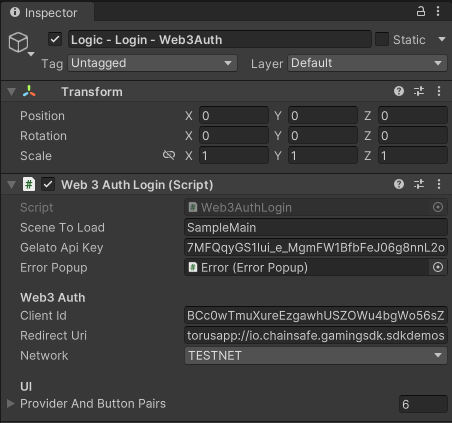
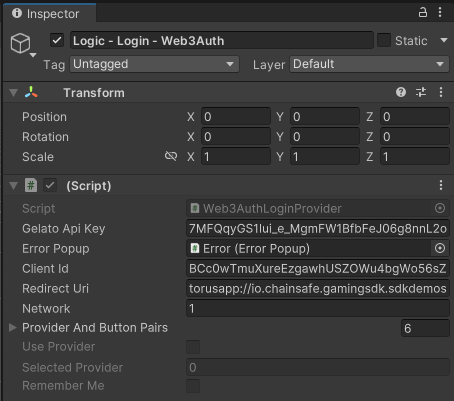
Updated Web3Auth page
I removed the old scripts, and added in details to inform the user on how to obtain their API key.

diff --git a/docs/v2.6/5_web3auth.md b/docs/v2.6/5_web3auth.md
@@ -24,316 +24,26 @@ Here’s how you can include Web3Auth in your video games.
 
 6. Add the Web3Auth scene and your scene to the build settings, and you’re done.
 
-## Sign Web3Auth {#sign-through-web3auth}
-
-Generates a cryptographic signature for a given string or message via Web3Auth.
-
-```csharp
-using UnityEngine.UI;
-using UnityEngine;
-using Web3Unity.Scripts.Library.Ethers.Web3AuthWallet;
-
-public class SignW3A : MonoBehaviour
-{
-    public Text responseText;
-    public string message = "This is a test message to sign";
-    private GameObject CSWallet = null;
-    
-    public void OnEnable()
-    {
-        // resets response text
-        responseText.text = "";
-    }
-
-    public void OnSignMessage()
-    {
-        // finds the wallet, sets sign and incoming tx conditions to true and opens
-        CSWallet = GameObject.FindGameObjectWithTag("CSWallet");
-        W3AWalletUtils.incomingTx = true;
-        W3AWalletUtils.incomingAction = "Sign";
-        W3AWalletUtils.incomingMessageData = message;
-        CSWallet.GetComponent<Web3AuthWallet>().OpenButton();
-    }
-
-    void Update()
-    {
-        if (W3AWalletUtils.signedTxResponse != "")
-        {
-            // display signed tx response from wallet
-            responseText.text = W3AWalletUtils.signedTxResponse;
-            W3AWalletUtils.signedTxResponse = "";
-        }
-    }
-}
-```
-
-## Verify Web3Auth {#verify-through-web3auth}
-
-Verify a signed message via Web3Auth.
-
-```csharp
-using UnityEngine.UI;
-using System.Text;
-using Nethereum.Signer;
-using Nethereum.Util;
-using UnityEngine;
-using Web3Unity.Scripts.Library.Ethers.Web3AuthWallet;
-
-public class VerifyW3A : MonoBehaviour
-{
-    public Text responseText;
-    public string message = "hello";
-    private GameObject CSWallet = null;
-
-    public void OnEnable()
-    {
-        // resets response text
-        responseText.text = "";
-    }
-    
-    public void UserSign()
-    {
-        // finds the wallet, sets sign and incoming tx conditions to true and opens
-        CSWallet = GameObject.FindGameObjectWithTag("CSWallet");
-        W3AWalletUtils.incomingTx = true;
-        W3AWalletUtils.incomingAction = "Sign";
-        W3AWalletUtils.incomingMessageData = message;
-        CSWallet.GetComponent<Web3AuthWallet>().OpenButton();
-    }
-    
-    public void SignVerifySignature(string signatureString, string originalMessage)
-    {
-        string msg = "\x19" + "Ethereum Signed Message:\n" + originalMessage.Length + originalMessage;
-        byte[] msgHash = new Sha3Keccack().CalculateHash(Encoding.UTF8.GetBytes(msg));
-        EthECDSASignature signature = MessageSigner.ExtractEcdsaSignature(signatureString);
-        EthECKey key = EthECKey.RecoverFromSignature(signature, msgHash);
-
-        bool isValid = key.Verify(msgHash, signature);
-        Debug.Log("Address Returned: " + key.GetPublicAddress());
-        Debug.Log("Is Valid: " + isValid);
-        // display signed tx response from wallet
-        responseText.text = "Verify Address: " + key.GetPublicAddress();
-    }
-    
-    void Update()
-    {
-        if (W3AWalletUtils.signedTxResponse != "")
-        {
-            //verification
-            SignVerifySignature(W3AWalletUtils.signedTxResponse, message);
-            W3AWalletUtils.signedTxResponse = "";
-        }
-    }
-}
-```
-
-## Transfer ERC-20 Token Through Web3Auth {#transfer-erc-20-token-through-web3auth}
-
-Send an ERC-20 token transfer through Unity via Web3Auth.
-
-```csharp
-using System;
-using System.Numerics;
-using Web3Unity.Scripts.Library.Ethers.Contracts;
-using UnityEngine;
-using UnityEngine.UI;
-using Web3Unity.Scripts.Library.Ethers.Web3AuthWallet;
-
-public class TransferW3A: MonoBehaviour
-{
-    public Text responseText;
-    public string contractAddress = "0xed7f68Ed23bB75841ab1448A95fa19aA46e9EA3E";
-    public string toAccount = "0xdA064B1Cef52e19caFF22ae2Cc1A4e8873B8bAB0";
-    public string amount = "1000000000000000000";
-    public string contractAbi = "[ { \"inputs\": [ { \"internalType\": \"address\", \"name\": \"_to\", \"type\": \"address\" }, { \"internalType\": \"uint256\", \"name\": \"_value\", \"type\": \"uint256\" } ], \"name\": \"mint\", \"outputs\": [ { \"internalType\": \"bool\", \"name\": \"\", \"type\": \"bool\" } ], \"stateMutability\": \"nonpayable\", \"type\": \"function\" }, { \"inputs\": [ { \"internalType\": \"address\", \"name\": \"_to\", \"type\": \"address\" }, { \"internalType\": \"uint256\", \"name\": \"_value\", \"type\": \"uint256\" } ], \"name\": \"transfer\", \"outputs\": [ { \"internalType\": \"bool\", \"name\": \"success\", \"type\": \"bool\" } ], \"stateMutability\": \"nonpayable\", \"type\": \"function\" }, { \"inputs\": [], \"stateMutability\": \"nonpayable\", \"type\": \"constructor\" }, { \"anonymous\": false, \"inputs\": [ { \"indexed\": true, \"internalType\": \"address\", \"name\": \"_from\", \"type\": \"address\" }, { \"indexed\": true, \"internalType\": \"address\", \"name\": \"_to\", \"type\": \"address\" }, { \"indexed\": false, \"internalType\": \"uint256\", \"name\": \"_value\", \"type\": \"uint256\" } ], \"name\": \"Transfer\", \"type\": \"event\" }, { \"inputs\": [], \"name\": \"_decimal\", \"outputs\": [ { \"internalType\": \"uint8\", \"name\": \"\", \"type\": \"uint8\" } ], \"stateMutability\": \"view\", \"type\": \"function\" }, { \"inputs\": [], \"name\": \"_name\", \"outputs\": [ { \"internalType\": \"string\", \"name\": \"\", \"type\": \"string\" } ], \"stateMutability\": \"view\", \"type\": \"function\" }, { \"inputs\": [], \"name\": \"_symbol\", \"outputs\": [ { \"internalType\": \"string\", \"name\": \"\", \"type\": \"string\" } ], \"stateMutability\": \"view\", \"type\": \"function\" }, { \"inputs\": [], \"name\": \"_totalSupply\", \"outputs\": [ { \"internalType\": \"uint256\", \"name\": \"\", \"type\": \"uint256\" } ], \"stateMutability\": \"view\", \"type\": \"function\" }, { \"inputs\": [ { \"internalType\": \"address\", \"name\": \"_owner\", \"type\": \"address\" } ], \"name\": \"balanceOf\", \"outputs\": [ { \"internalType\": \"uint256\", \"name\": \"balance\", \"type\": \"uint256\" } ], \"stateMutability\": \"view\", \"type\": \"function\" }, { \"inputs\": [], \"name\": \"decimals\", \"outputs\": [ { \"internalType\": \"uint8\", \"name\": \"\", \"type\": \"uint8\" } ], \"stateMutability\": \"view\", \"type\": \"function\" }, { \"inputs\": [], \"name\": \"name\", \"outputs\": [ { \"internalType\": \"string\", \"name\": \"\", \"type\": \"string\" } ], \"stateMutability\": \"view\", \"type\": \"function\" }, { \"inputs\": [], \"name\": \"symbol\", \"outputs\": [ { \"internalType\": \"string\", \"name\": \"\", \"type\": \"string\" } ], \"stateMutability\": \"view\", \"type\": \"function\" }, { \"inputs\": [], \"name\": \"totalSupply\", \"outputs\": [ { \"internalType\": \"uint256\", \"name\": \"\", \"type\": \"uint256\" } ], \"stateMutability\": \"view\", \"type\": \"function\" } ]";
-    private GameObject CSWallet = null;
-    
-    public void OnEnable()
-    {
-        // resets response text
-        responseText.text = "";
-    }
-    
-    public void Transfer()
-    {
-        // smart contract method to call
-        string method = "transfer";
-        W3AWalletUtils.outgoingContract = contractAddress;
-        // connects to user's browser wallet (metamask) to send a transaction
-        try {
-            // connects to user's browser wallet to call a transaction
-            var contract = new Contract(contractAbi, contractAddress);
-            Debug.Log("Contract: " + contract);
-            var calldata = contract.Calldata(method, new object[]
-            {
-                toAccount,
-                BigInteger.Parse(amount)
-            });
-            Debug.Log("Contract Data: " + calldata);
-            // finds the wallet, sets sign and incoming tx conditions to true and opens
-            CSWallet = GameObject.FindGameObjectWithTag("CSWallet");
-            W3AWalletUtils.incomingTx = true;
-            W3AWalletUtils.incomingAction = "Broadcast";
-            W3AWalletUtils.incomingTxData = calldata;
-            CSWallet.GetComponent<Web3AuthWallet>().OpenButton();
-        } catch (Exception e) {
-            Debug.LogException(e, this);
-        }
-    }
-
-    public void Mint()
-    {
-        string account = PlayerPrefs.GetString("Account");
-        // smart contract method to call
-        string method = "mint";
-        W3AWalletUtils.outgoingContract = contractAddress;
-        // connects to user's browser wallet (metamask) to send a transaction
-        try {
-            var contract = new Contract(contractAbi, contractAddress);
-            Debug.Log("Contract: " + contract);
-            var calldata = contract.Calldata(method, new object[]
-            {
-                account,
-                BigInteger.Parse(amount)
-            });
-            Debug.Log("Contract Data: " + calldata);
-            // finds the wallet, sets sign and incoming tx conditions to true and opens
-            CSWallet = GameObject.FindGameObjectWithTag("CSWallet");
-            W3AWalletUtils.incomingTx = true;
-            W3AWalletUtils.incomingAction = "Broadcast";
-            W3AWalletUtils.incomingTxData = calldata;
-            CSWallet.GetComponent<Web3AuthWallet>().OpenButton();
-        } catch (Exception e) {
-            Debug.LogException(e, this);
-        }
-    }
-    
-    void Update()
-    {
-        if (W3AWalletUtils.signedTxResponse != "")
-        {
-            // display signed tx response from wallet
-            responseText.text = W3AWalletUtils.signedTxResponse;
-            W3AWalletUtils.signedTxResponse = "";
-        }
-    }
-}
-```
-
-## Call Custom Contracts Web3Auth {#call-custom-contracts-through-web3auth}
-
-Call will execute a smart contract method without altering the smart contract state via Web3Auth.
-
-## Solidity Contract Example
-
-This code snippet defines a simple smart contract example where the `myTotal` variable (initialized at 0) is added to (by the input value `_myArg`) and updated to a new total. 
-
-```csharp
-// SPDX-License-Identifier: MIT
-pragma solidity ^0.8.0;
-
-contract AddTotal {
-    uint256 public myTotal = 0;
-
-    function addTotal(uint8 _myArg) public {
-        myTotal = myTotal + _myArg;
-    }
-}
-```
-
-## Reading & Writing A Value From A Solidity Contract Web3Auth
-
-Retrieves the value of a specified variable (`myTotal`) from a smart contract.
-
-```csharp
-using Web3Unity.Scripts.Library.Ethers.Contracts;
-using UnityEngine.UI;
-using UnityEngine;
-using Web3Unity.Scripts.Library.Ethers.Web3AuthWallet;
-
-public class ContractCallSignW3A : MonoBehaviour
-{
-    public string chain = "ethereum";
-    // set network mainnet, testnet
-    public string network = "goerli";
-    // abi in json format
-    public string contractAbi = "[ { \"inputs\": [ { \"internalType\": \"uint8\", \"name\": \"_myArg\", \"type\": \"uint8\" } ], \"name\": \"addTotal\", \"outputs\": [], \"stateMutability\": \"nonpayable\", \"type\": \"function\" }, { \"inputs\": [], \"name\": \"myTotal\", \"outputs\": [ { \"internalType\": \"uint256\", \"name\": \"\", \"type\": \"uint256\" } ], \"stateMutability\": \"view\", \"type\": \"function\" } ]";
-    // address of contract
-    public string contractAddress = "0x741C3F3146304Aaf5200317cbEc0265aB728FE07";
-    public Text responseText;
-    private GameObject CSWallet = null;
-
-    /*
-        //Solidity Contract
-        // SPDX-License-Identifier: MIT
-        pragma solidity ^0.8.0;
-
-        contract AddTotal {
-            uint256 public myTotal = 0;
-
-            function addTotal(uint8 _myArg) public {
-                myTotal = myTotal + _myArg;
-            }
-        }
-    */
-    
-    public void OnEnable()
-    {
-        // resets response text
-        responseText.text = "";
-    }
-
-    async public void CheckVariable()
-    {
-        string method = "myTotal";
-        // you can use this to create a provider for hardcoding and parse this instead of rpc get instance
-        //var provider = new JsonRpcProvider(PlayerPrefs.GetString("RPC"));
-        var contract = new Contract(contractAbi, contractAddress, RPC.GetInstance.Provider());
-        Debug.Log("Contract: " + contract);
-        var calldata = await contract.Call(method, new object[]
-        {
-            // if you need to add parameters you can do so, a call with no args is blank
-            // arg1,
-            // arg2
-        });
-        Debug.Log("Contract Data: " + calldata[0]);
-        // display response in game
-        print("Contract Variable Total: " + calldata[0]);
-        responseText.text = "Contract Variable Total: " + calldata[0];
-    }
-
-    public void AddOneToVariable()
-    {
-        string method = "addTotal";
-        string amount = "1";
-        W3AWalletUtils.outgoingContract = contractAddress;
-        var contract = new Contract(contractAbi, contractAddress);
-        Debug.Log("Contract: " + contract);
-        var calldata = contract.Calldata(method, new object[]
-        {
-            // values need to be converted to their data types in solidity
-            int.Parse(amount)
-        });
-        Debug.Log("Contract Data: " + calldata);
-        // finds the wallet, sets sign and incoming tx conditions to true and opens
-        CSWallet = GameObject.FindGameObjectWithTag("CSWallet");
-        W3AWalletUtils.incomingTx = true;
-        W3AWalletUtils.incomingAction = "Broadcast";
-        W3AWalletUtils.incomingTxData = calldata;
-        CSWallet.GetComponent<Web3AuthWallet>().OpenButton();
-        print("Please check the contract variable again in a few seconds once the chain has processed the request!");
-    }
-    
-    void Update()
-    {
-        if (W3AWalletUtils.signedTxResponse != "")
-        {
-            // display signed tx response from wallet
-            responseText.text = W3AWalletUtils.signedTxResponse;
-            W3AWalletUtils.signedTxResponse = "";
-        }
-    }
-}
-```
-
 We hope you enjoy social logins as it offers a unique way to onboard users to the blockchain without actually requiring a wallet.
+
+## Moving to Production
+The default settings for Web3Auth are great for testing but once you're ready to move to production you will want to manage your won API key. To get started, visit the [Web3Auth dashboard](https://dashboard.web3auth.io/) and create your account.
+
+In the dashboard, click on project navigation column on the left, and click "Create Project".
+
+![](assets/wallets/web3auth/web3auth-project.png)
+
+In the create new project menu, be sure to choose "Plug and Play" for your product, "Unity" for your platform types, and "EVM Based Chain" for the Chains you are building on.
+
+![](assets/wallets/web3auth/web3auth-project-details.png)
+
+When you create your project, you'll be redirected to the project page. Copy your client ID and open Unity.
+
+![](assets/wallets/web3auth/web3auth-project-page.png)
+
+
+Click on the Login Logic - Web3Auth object and in the inspector, paste in your client ID in the client ID field under the Web3Auth section.
+
+![](assets/wallets/web3auth/web3auth-login-logic.png)
+
+Now you are all set to move to production!
